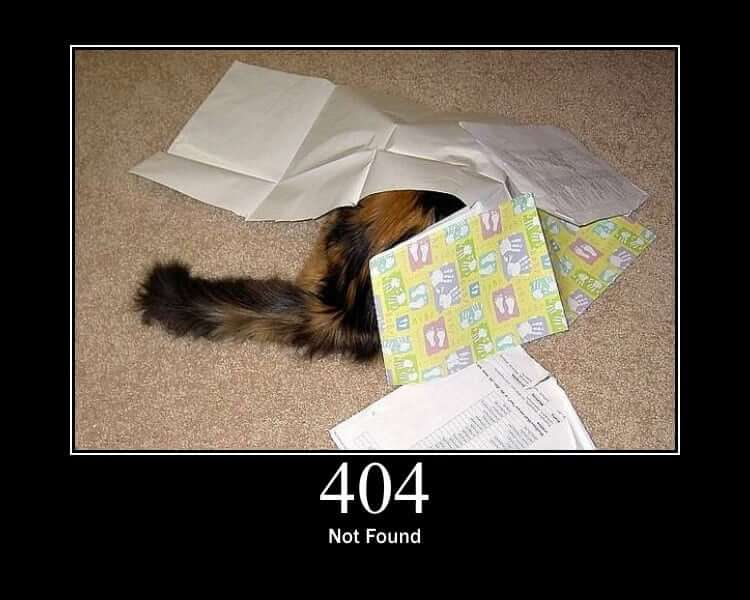
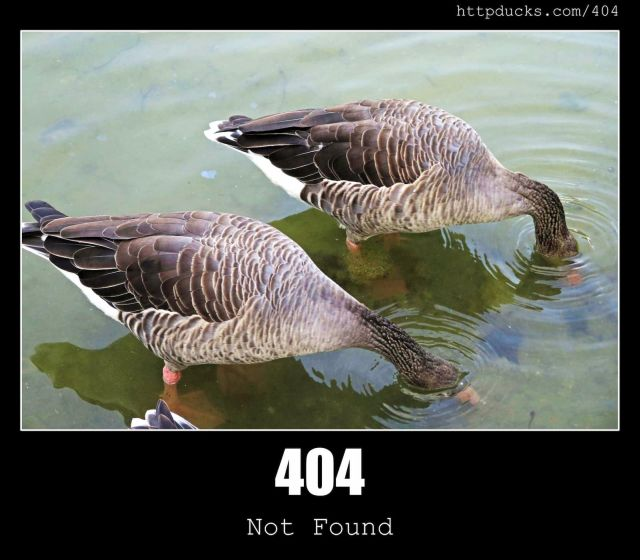
Changed 404 page to ducks.

diff --git a/Pages/Changelog.html b/Pages/Changelog.html
@@ -51,6 +51,7 @@
         window.addEventListener('load', getRandomImage);
         </script>
 <h1>Site Changelog (newest to oldest)</h1>
+<p>21/01/24 - Just changed 404's page to a new one with some ducks. Nice!</p>
 <p>21/01/24 - Added some rather cute HTTP Error messages, Thanks to HTTPCats and HTTPDogs! (Errors 403, 404, 410 and 418 at this time!)</p>
 <p>11/01/24 - Well, I forgot about this website for a few months! I've added a new page, containing my 86Box Configs, Changed the background to light gray, I'll be finishing up the 1990s section on the page I just mentioned</p>
 <p>14/09/23 - I have decided to discontinue the banner ad project as it's simply too much work. I have uploaded my collection to here: https://archive.org/details/3-dr-1 </p>

diff --git a/Pages/Thanks.html b/Pages/Thanks.html
@@ -59,6 +59,8 @@
 <br>
 <a href="https://httpstatusdogs.com/">HTTP Dogs</a>
 <br>
+<a href="https://httpducks.com">HTTP Ducks</a>
+<br>
 <a href="../index.html">Go Back</a>
 </body>
 </html>
